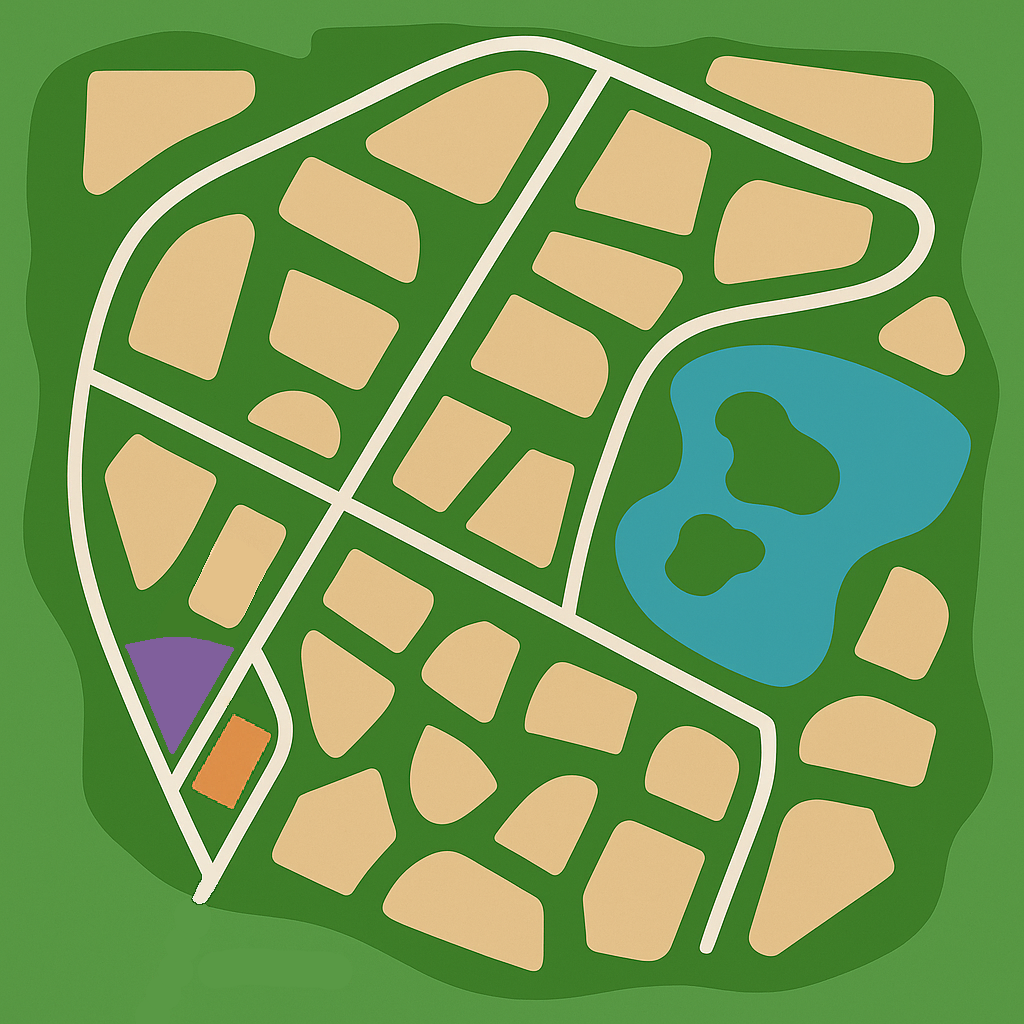
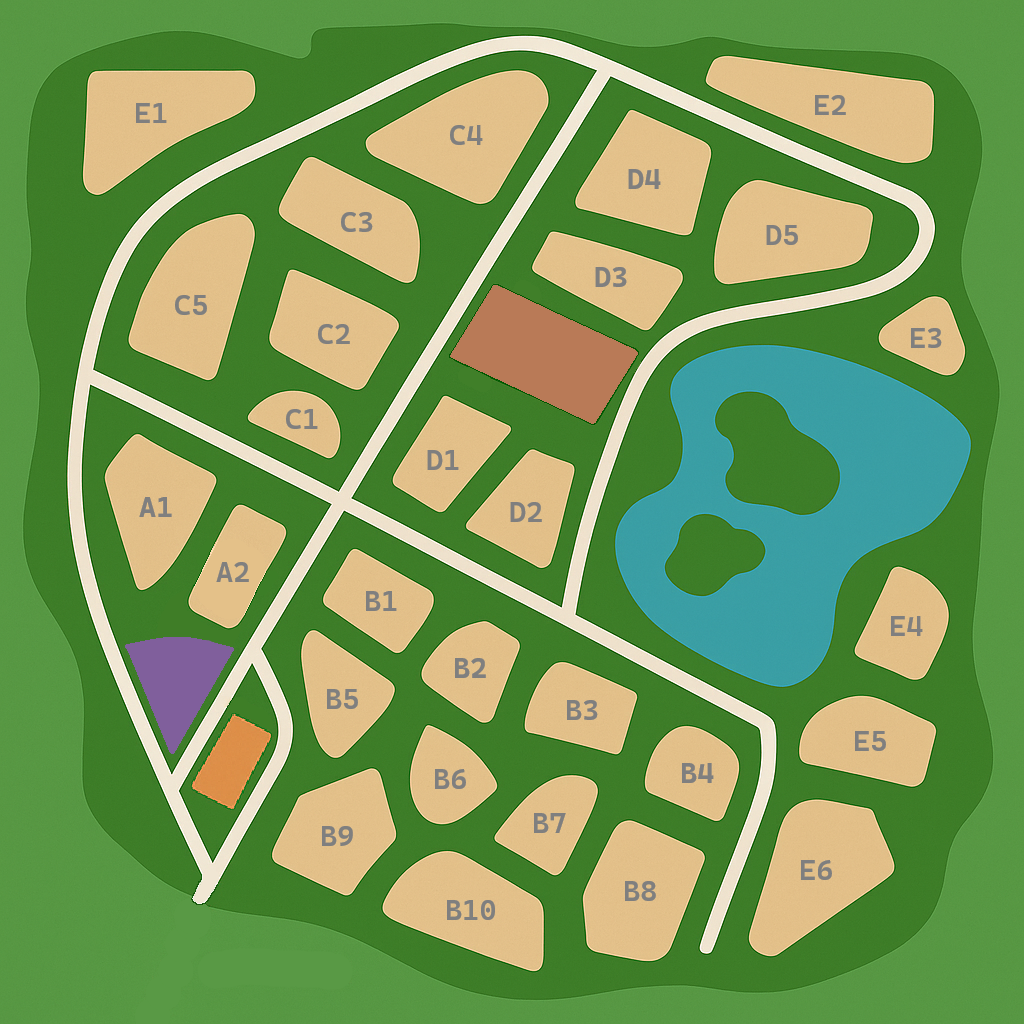
Final commit

diff --git a/src/news-articles/news-template.js b/src/news-articles/news-template.js
@@ -34,8 +34,6 @@ function NewsTemplate() {
     const [isPhotoMode, setIsPhotoMode] = useState(false);
     const [artImage, setArtImage] = useState('');
     const [artText, setArtText] = useState('');
-    const [zoom, setZoom] = useState(false);
-    const handleZoom = () => setZoom((zoom) => !zoom);
 
     const addArticlePhoto = async() => {
         await axios.post(`http://localhost/ZooDashboard/zoo_dashboard/src/backend/addNewsArticleImgOrTxt.php?ID=${artID}`, artData)
@@ -180,7 +178,7 @@ function NewsTemplate() {
                 </div>
                 <div className="news-art-img">
                     {articleDetails.Img ? (
-                        <img src={`http://localhost/ZooDashboard/extResources/NewsPhoto/${articleDetails.Img}`} alt="article-pic" onClick={handleZoom}/>
+                        <img src={`http://localhost/ZooDashboard/extResources/NewsPhoto/${articleDetails.Img}`} alt="article-pic"/>
                     ) : (
                         <img src={placePic} alt="news-pic"/>
                     )}
@@ -218,12 +216,6 @@ function NewsTemplate() {
                         <Button type="submit" sx={{ backgroundColor: 'green', color: "white", '&:hover': {backgroundColor: 'darkgreen'}}}>Submit</Button>
                     </DialogActions>
                 </form>    
-            </Dialog>
-
-            <Dialog open={zoom} onClose={handleZoom} disableScrollLock>
-                <div className="photo-zoom">
-                    <img src={`http://localhost/ZooDashboard/extResources/News/${articleDetails.Img}`} alt="zoomed"/>
-                </div>
             </Dialog>
         </div>
     );

diff --git a/src/components/PinInfo.js b/src/components/PinInfo.js
@@ -1,10 +1,13 @@
 import React, { useState, useEffect } from 'react';
 import "./PinInfo.css";
 import axios from 'axios';
+import { Dialog } from '@mui/material';
 import placePic from "../resources/ph-img-wide.png";
 
 function PinInfo({pinId}) {
     const[info, setInfo] = useState([]);
+    const [zoom, setZoom] = useState(false);
+    const handleZoom = () => setZoom((zoom) => !zoom);
 
     const fetchPinsInfo = async (ID) => {
         try {
@@ -38,7 +41,7 @@ function PinInfo({pinId}) {
                 <div className="pin-content">
                     <div className="pin-photo">
                         {info.Img ? (
-                            <img src={`http://localhost/ZooDashboard/extResources/Pins/${info.Img}`} alt="place-pic"/>
+                            <img src={`http://localhost/ZooDashboard/extResources/Pins/${info.Img}`} alt="place-pic" onClick={handleZoom}/>
                         ) : (
                             <img src={placePic} alt="place-pic"/>
                         )}
@@ -51,6 +54,12 @@ function PinInfo({pinId}) {
             ) : (
                 <h6>Please select a point of interest to see it's description</h6>
             )}
+            
+            <Dialog open={zoom} onClose={handleZoom} disableScrollLock>
+                <div className="photo-zoom">
+                    <img src={`http://localhost/ZooDashboard/extResources/Pins/${info.Img}`} alt="zoomed"/>
+                </div>
+            </Dialog>
         </div>
     );
 }

diff --git a/src/components/ZooMapLegend.js b/src/components/ZooMapLegend.js
@@ -1,0 +1,43 @@
+import React, { useState, useEffect } from 'react';
+import "./ZooMapLegend.css";
+import axios from 'axios';
+
+function ZooMapLegend() {
+    const [legend, setLegend] = useState([]);
+    const [zoom, setZoom] = useState(false);
+
+    const fetchLegend = async () => {
+        try {
+            const response = await axios.get("http://localhost/ZooDashboard/zoo_dashboard/src/backend/getMapLegend.php");
+            //console.log(response);    //debug
+            if(Array.isArray(response.data)){
+                if(response.data.length>0 && typeof response.data[0] === 'object'){
+                setLegend(response.data);
+                }
+            } else {
+                console.error('Legend: expected array but received: ', response.data);
+            }
+        } catch (error) {
+            console.error('Error fetching legend:', error);
+        }
+    };
+
+    useEffect(() => {        
+        fetchLegend();
+    }, []);
+        
+    return (
+        <div className="legend-body">
+            <h3>Animal Enclosures Legend</h3>
+            <div className="legend-content">
+                {legend.map((l, index) => (
+                    <div key={index} className="legend-item">
+                        <p><b>{l.Enclosure}</b> - {l.Breed}</p>
+                    </div>
+                ))}
+            </div>
+        </div>
+    );
+}
+
+export default ZooMapLegend;

diff --git a/src/pages/animals.js b/src/pages/animals.js
@@ -38,7 +38,7 @@ function AnimalsPage() {
         Age: '',
         Img: '',
     });
-    const columnsTicket = [
+    const columnsAnimals = [
         ...(auth?.Username ? [{ field: 'ID', headerName: 'ID', maxWidth: 20, headerAlign: 'center', headerClassName: 'TableHeader' }] : []),
         { field: 'Name', headerName: 'Name', minWidth: 80, flex: 1, headerAlign: 'center', headerClassName: 'TableHeader'  },
         { field: 'Species', headerName: 'Species', minWidth: 80, flex: 1, headerAlign: 'center', headerClassName: 'TableHeader'  },
@@ -244,6 +244,7 @@ function AnimalsPage() {
             Status: notes.Status === "Healthy" ? 1 : 0,
             About: notes.About,
             Age: notes.Age,
+            Img: notes.Img
         });
         setIsEditMode(true);
         setOpenMenu(true);
@@ -299,7 +300,7 @@ function AnimalsPage() {
                 <div className="animal-list">
                     <DataGrid
                         rows={data}
-                        columns={columnsTicket}
+                        columns={columnsAnimals}
                         getRowId={(row) => row.ID}
                         initialState={{
                             pagination: {

diff --git a/src/pages/map.js b/src/pages/map.js
@@ -6,6 +6,7 @@ import Footer from '../components/Footer';
 import ScrollTopButton from "../components/ScrollTopButton";
 import ZooMap from '../components/ZooMap';
 import PinInfo from '../components/PinInfo';
+import ZooMapLegend from '../components/ZooMapLegend';
 
 function MapPage() {
     const [selectedPin, setSelectedPin] = useState(null);
@@ -26,9 +27,10 @@ function MapPage() {
                     <h1>Zoo Map</h1>
                 </div>
                 <div className="content zooMap-content">
-                    <h2 className="map-text">First time at our zoo? Here is a map with every sanctuary an point of interest. Just click on a pin.</h2>
-                    <ZooMap onPinClick={extractPinID}/>
+                    <h2 className="map-text">First time at our zoo? Here is a map with every sanctuary and point of interest. Just click on a pin.</h2>
                     <PinInfo pinId={selectedPin}/>
+                    <ZooMap onPinClick={extractPinID}/>
+                    <ZooMapLegend/>
                 </div>
             <Footer/>
             <ScrollTopButton/>

diff --git a/src/components/ZooMapLegend.css b/src/components/ZooMapLegend.css
@@ -1,0 +1,37 @@
+@import url('https://fonts.googleapis.com/css2?family=Inter:ital,opsz,wght@0,14..32,100..900;1,14..32,100..900&display=swap');
+@import url('https://fonts.googleapis.com/css2?family=Varela+Round&display=swap');
+
+.legend-body {
+    margin-top: 40px;
+    margin-inline: auto;
+    padding-inline: 20px;
+    padding-block: 20px;
+    width: 810px;
+    height: fit-content;
+    color: #EFE3C2;
+    background-color: #0e4b18;
+    border-radius: 20px;
+}
+
+.legend-body h3 {
+    margin: 0%;
+    margin-bottom: 10px;
+    font-size: larger;
+    font-family: 'Varela Round';
+}
+
+.legend-content {
+    display: grid;
+    grid-template-columns: repeat(3, 1fr);
+}
+
+.legend-item {
+    margin-block: 5px;
+    font-size: 17px;
+    font-weight: 400;
+    font-family: 'Inter';
+}
+
+.legend-item p {
+    margin: 0px;
+}

diff --git a/src/components/ZooMap.js b/src/components/ZooMap.js
@@ -98,7 +98,7 @@ function ZooMap({onPinClick}) {
         const rect = e.target.getBoundingClientRect();
         const x = e.clientX - rect.left;
         const y = e.clientY - rect.top;
-        setPinData({ X: Math.round(x)-20, Y: Math.round(y)-5 });
+        setPinData({ X: Math.round(x)-20, Y: Math.round(y)-30 });
     
         setOpenMenu(true);
     };

diff --git a/src/components/PinInfo.css b/src/components/PinInfo.css
@@ -1,5 +1,5 @@
 .pin-note {
-    margin-top: 20px;
+    margin-bottom: 40px;
     margin-inline: auto;
     padding-inline: 20px;
     padding-block: 20px;
@@ -30,6 +30,15 @@
     width: 300px;
     height: 200px;
     border-radius: 10px;
+}
+
+.photo-zoom {
+  display: flex;
+}
+
+.photo-zoom img {
+    width: 100%;
+    height: auto;
 }
 
 .pin-text {

diff --git a/src/pages/home.css b/src/pages/home.css
@@ -36,7 +36,7 @@
     margin-top: -200px;
     margin-bottom: 5%;
     padding-inline: 30px;
-    padding-bottom: 5%;
+    padding-bottom: 50px;
     background-color: #EFE3C2;
     border-radius: 50px;
 }

diff --git a/src/components/ZooMap.css b/src/components/ZooMap.css
@@ -6,7 +6,7 @@
 
 .zoo-map img{
     width: 850px;
-    max-height: auto;
+    min-height: 850px;
     z-index: 0;
     user-select: none;
     border-radius: 20px;

diff --git a/src/news-articles/news-style.css b/src/news-articles/news-style.css
@@ -131,12 +131,3 @@
     margin: 0px;
     margin-left: 20px;
 }
-
-.photo-zoom {
-  display: flex;
-}
-
-.photo-zoom img {
-    width: 100%;
-    height: auto;
-}

diff --git a/src/backend/getMapLegend.php b/src/backend/getMapLegend.php
@@ -1,0 +1,21 @@
+<?php
+
+require 'config.php';
+
+$sql = "SELECT Enclosure, Breed FROM ANIMALS ORDER BY Enclosure";
+
+$stmt=sqlsrv_query($conn, $sql);
+if (!$stmt) {
+    die(print_r(sqlsrv_errors(),true));
+}
+
+$data = array();
+while ($row = sqlsrv_fetch_array($stmt, SQLSRV_FETCH_ASSOC)) {
+    $data[] = $row;
+}
+
+sqlsrv_free_stmt($stmt);
+echo json_encode($data, JSON_PRETTY_PRINT);
+sqlsrv_close($conn);
+
+?>
